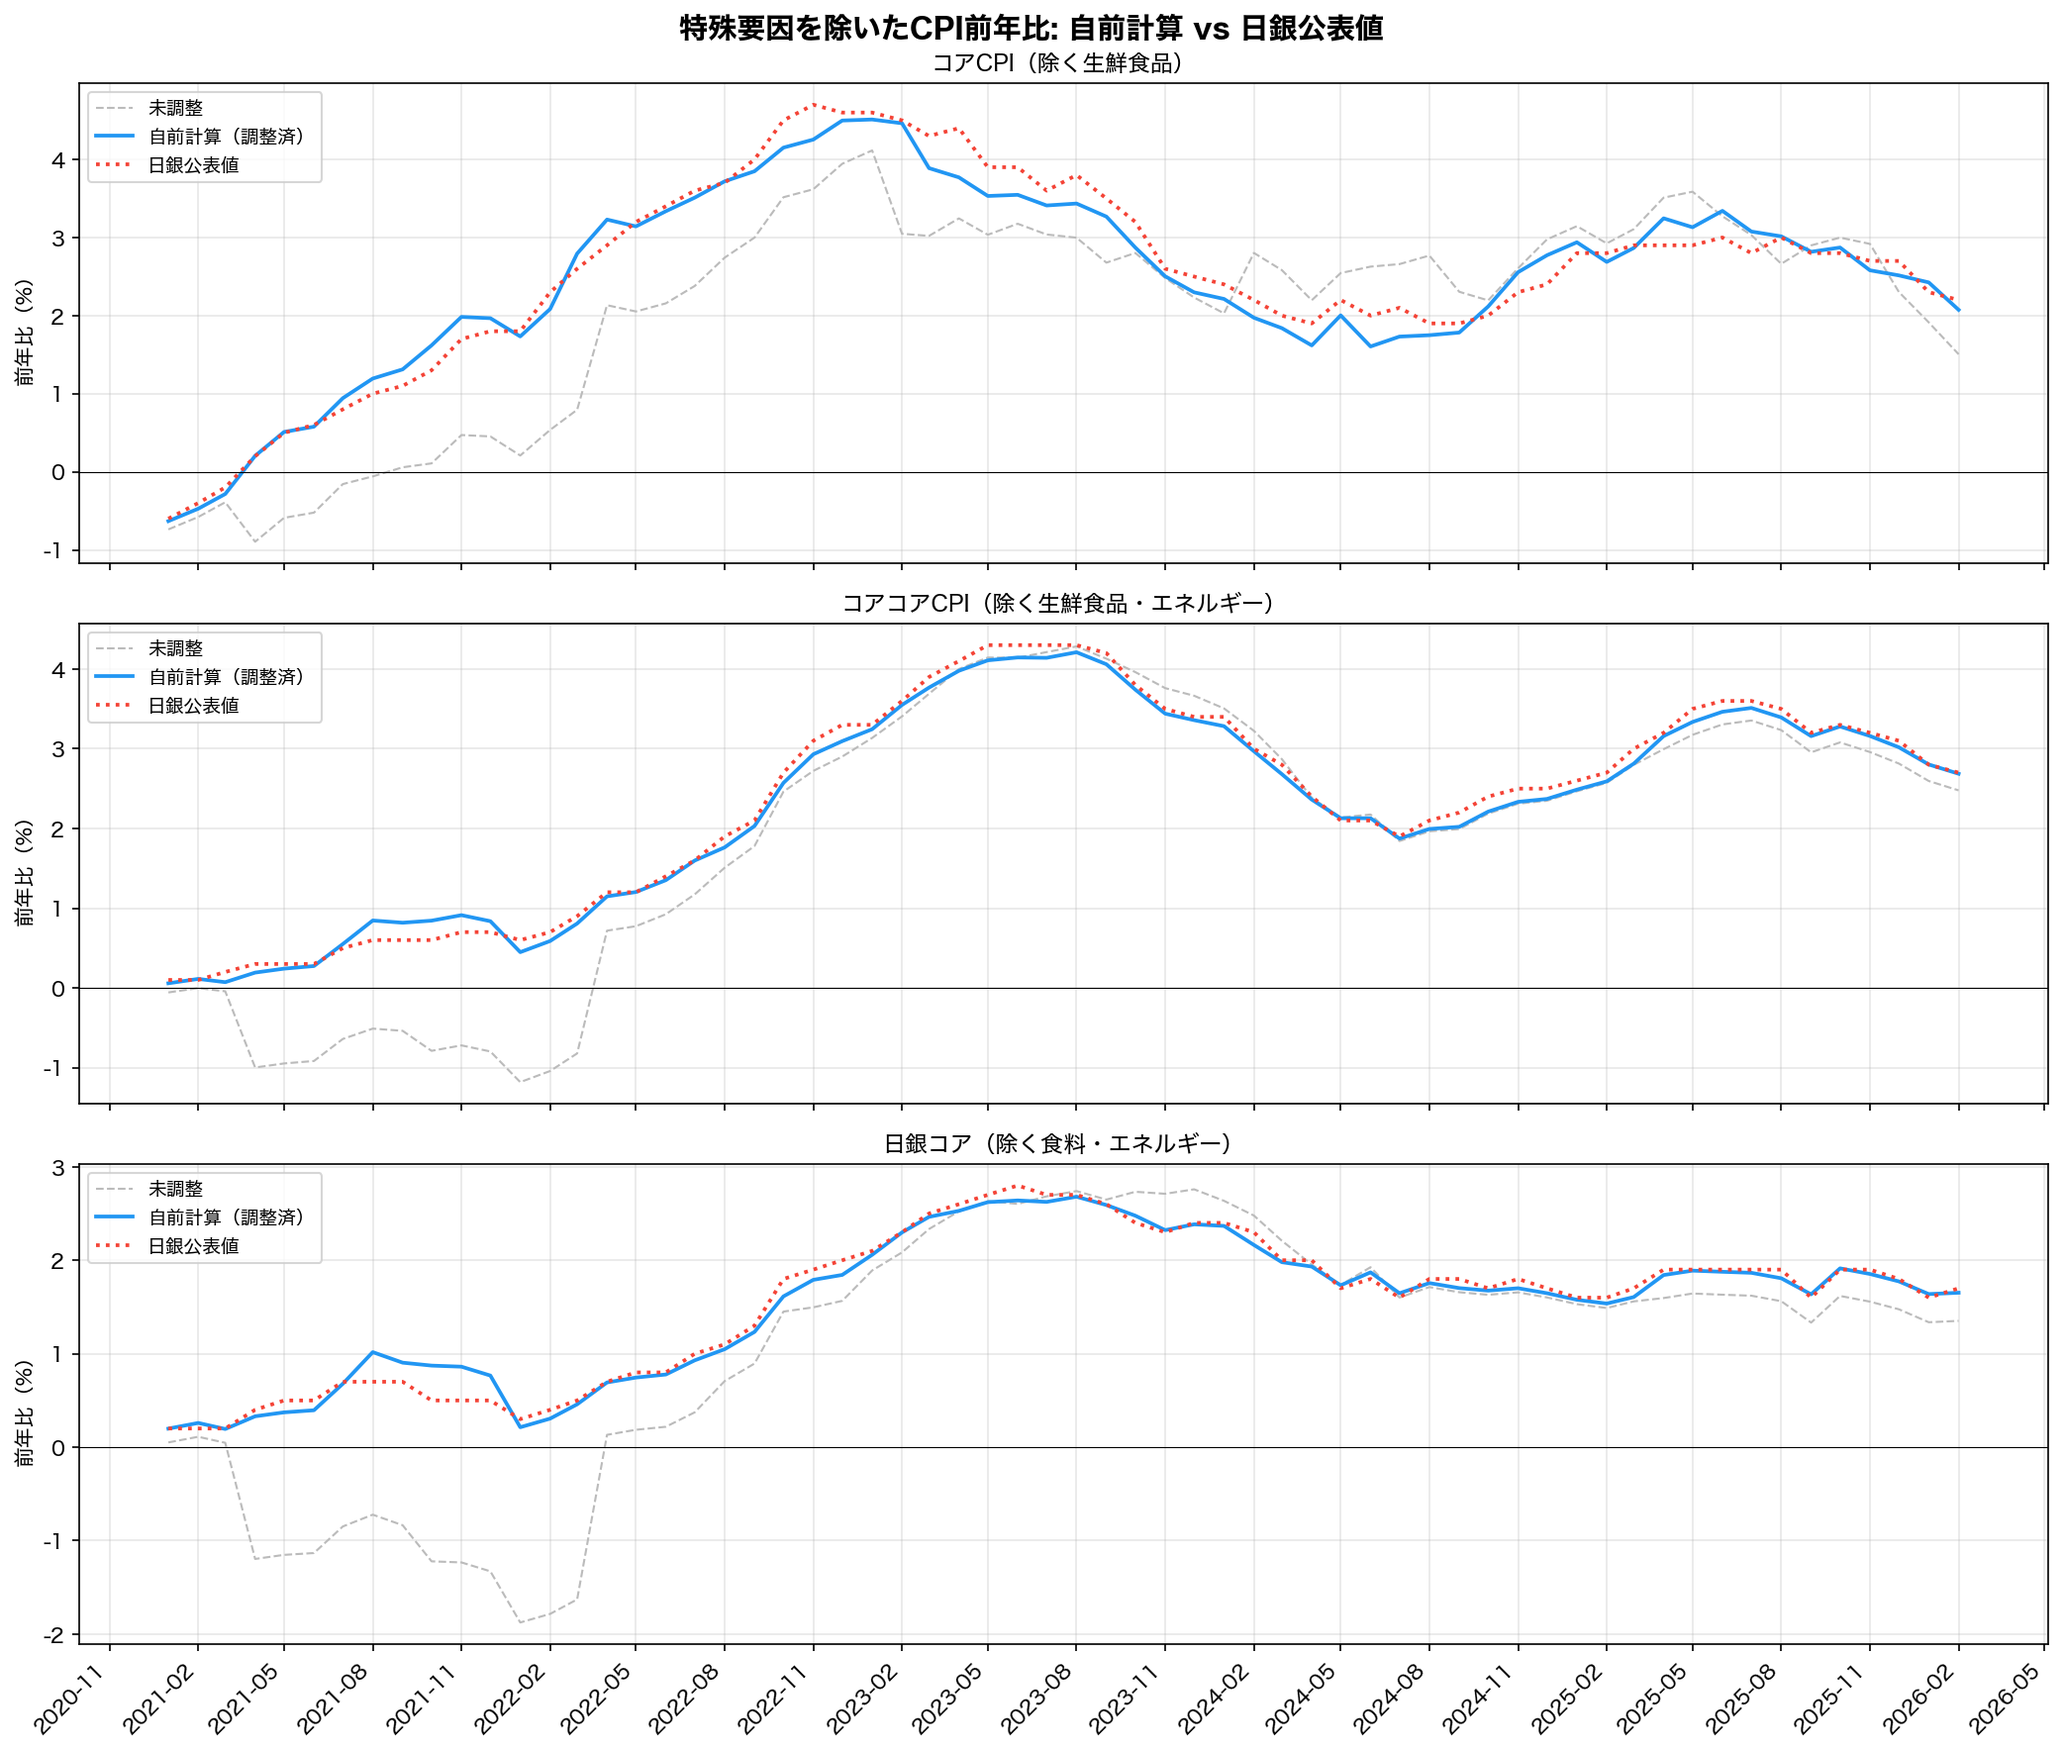
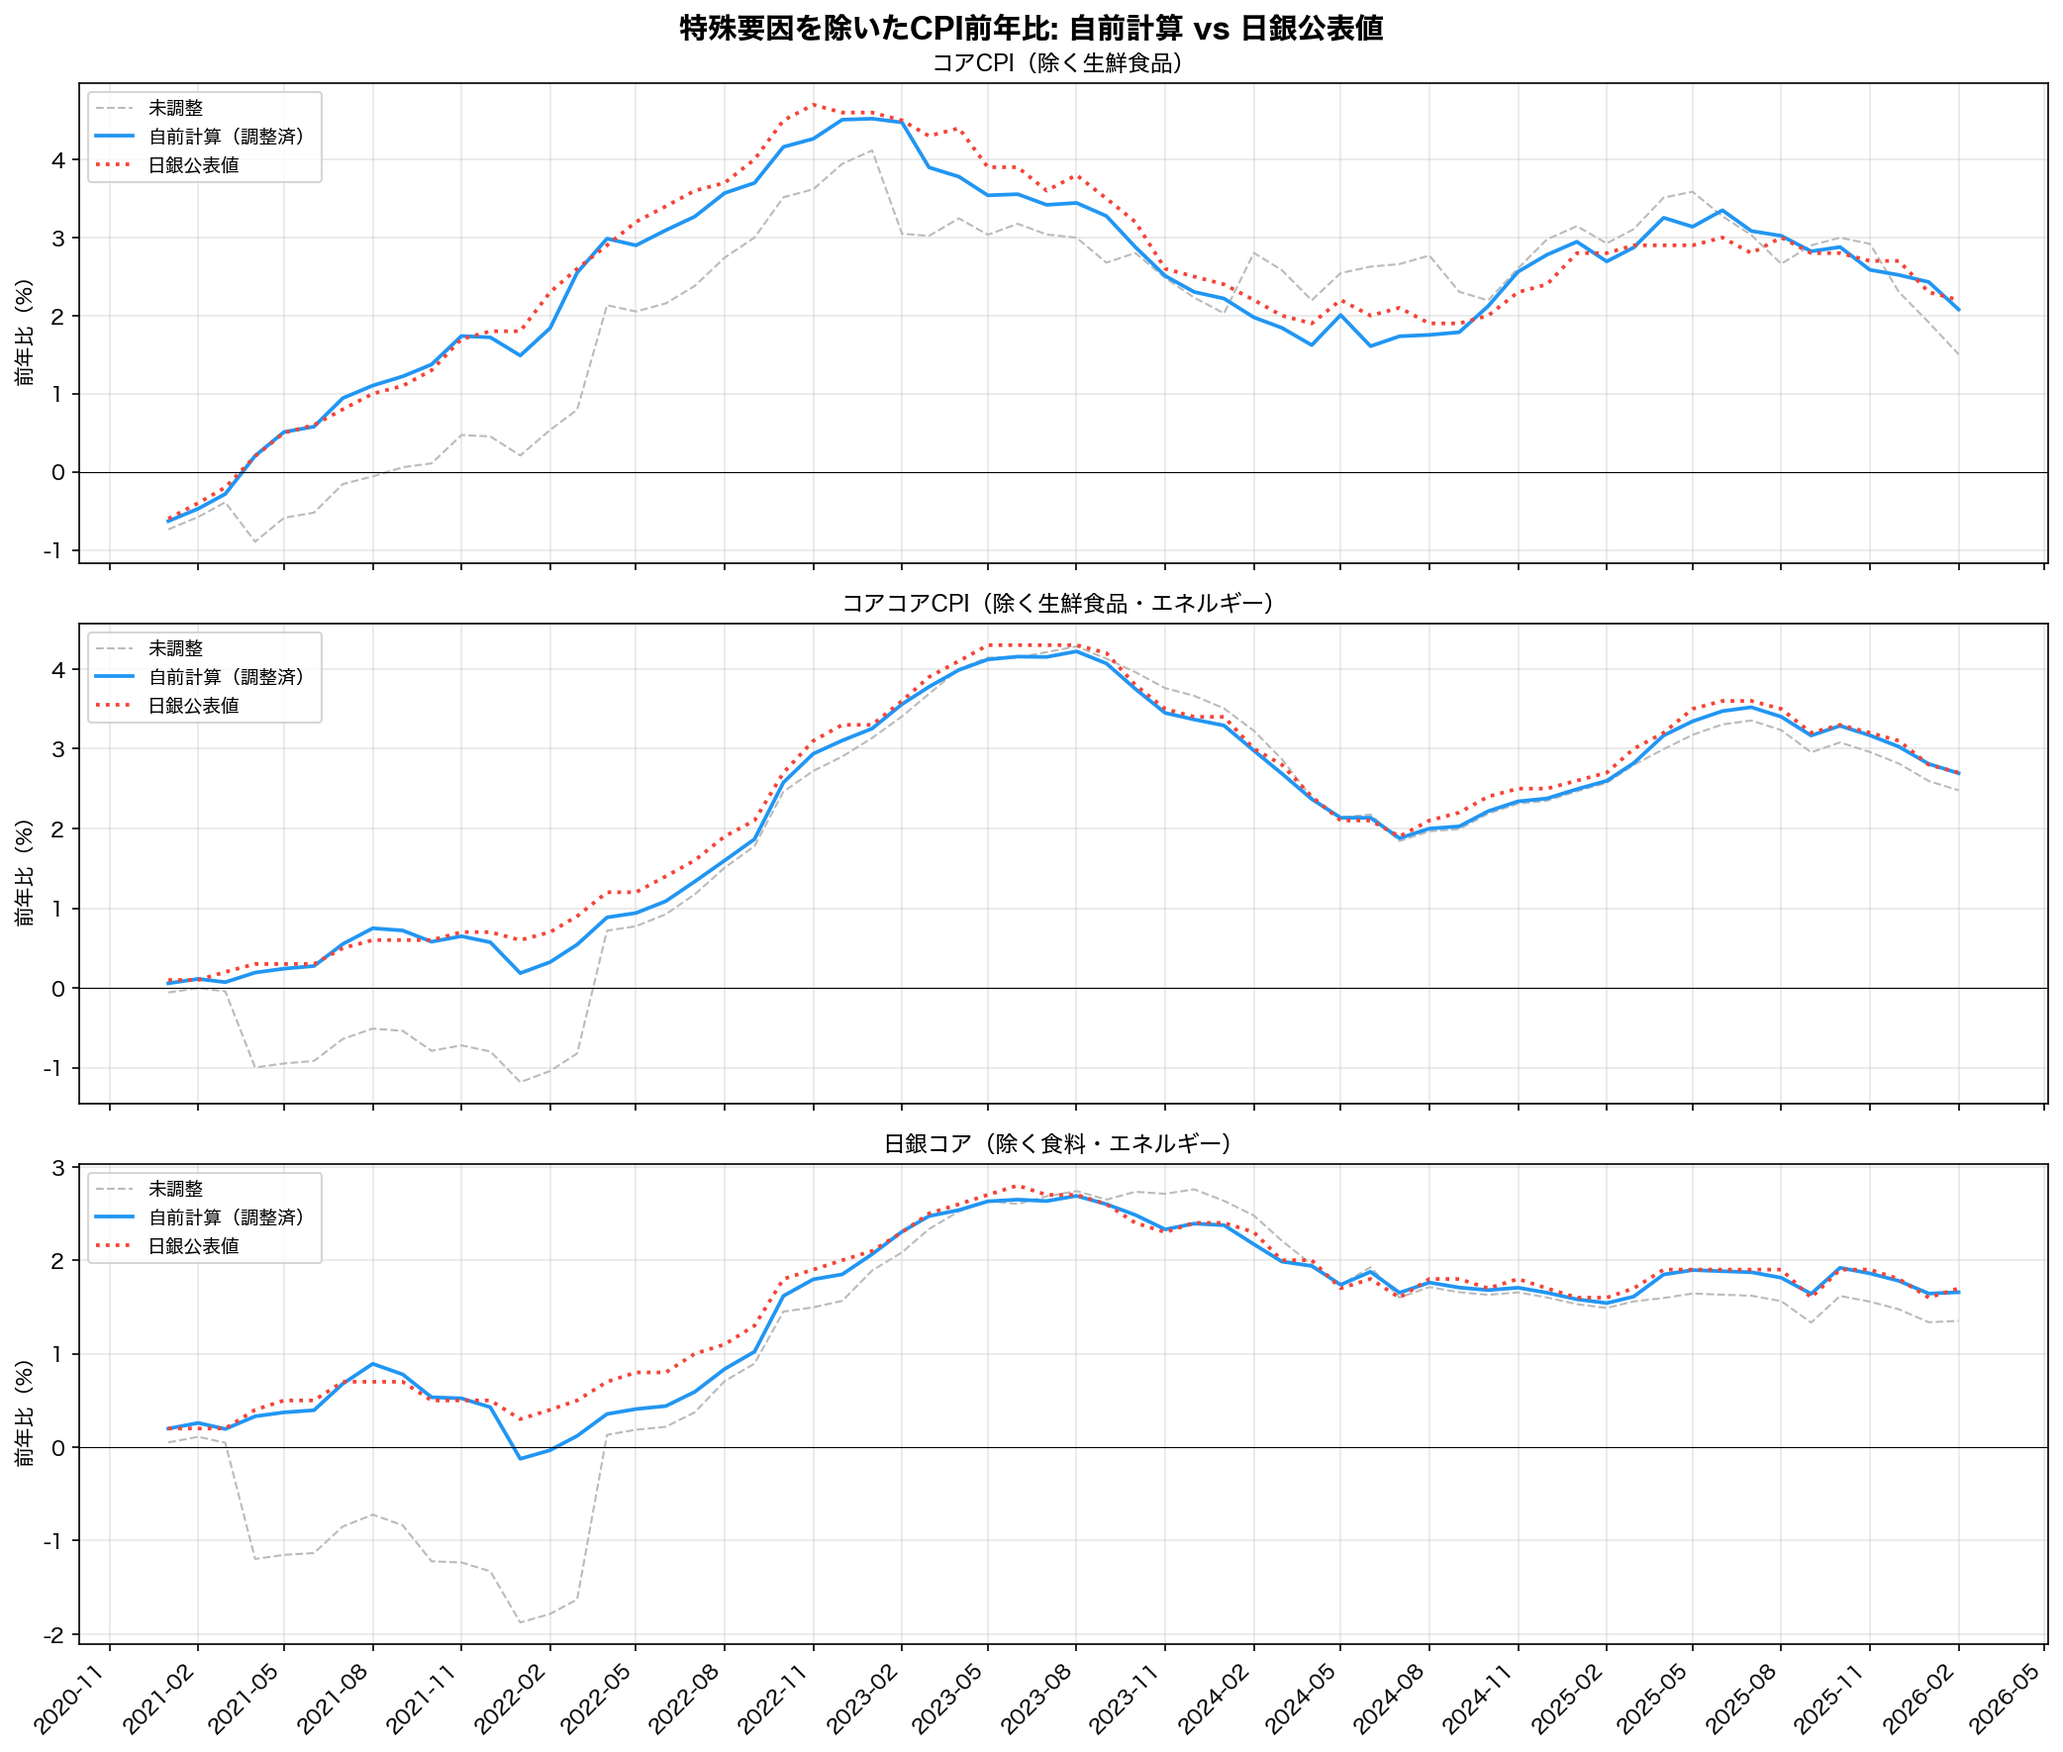
携帯通信料を保合+60%反映+固定段差方式に変更
2021-04: 保合(99.4)
2021-05〜2022-03: 月次変動の60%を反映（40%は自然競争として許容）
2022-04〜: 月次変動の100%を反映（固定段差）

2021年の全系列MAEが0.13-0.16→0.07ppに改善。
逆算で得た目標水準(90-94)に一致する調整済水準(90.9)が自然に導出される。

diff --git a/src/adjust_interpolation.py b/src/adjust_interpolation.py
@@ -22,35 +22,35 @@ import pandas as pd
 
 
 def adjust_mobile(cpi_index: pd.Series) -> pd.Series:
-    """携帯通信料の調整（年度保合＋固定段差方式）
+    """携帯通信料の調整（保合＋60%反映＋固定段差方式）
 
     1. 急落前（〜2021-03）: 実績値そのまま
-    2. 急落年度（2021-04〜2022-03）: 急落前水準で保合
-    3. 2022-04以降: 固定段差を加算
-       step = 2021-03の水準 - 2022-03の水準（年度末時点の段差）
-       adjusted[t] = actual[t] + step
+    2. 2021-04: 急落前水準で保合
+    3. 2021-05〜2022-03: 実績の月次変動の60%を反映
+       （残り40%は自然な市場競争として許容）
+    4. 2022-04以降: 実績の月次変動を100%反映（固定段差）
     """
     adjusted = cpi_index.copy()
     all_months = list(cpi_index.index)
 
     start_ym = "2021-03"
-    end_ym = "2022-03"
-    if start_ym not in all_months or end_ym not in all_months:
+    fy21_end = "2022-03"
+    if start_ym not in all_months:
         return adjusted
 
+    i_start = all_months.index(start_ym)
     val_pre = cpi_index[start_ym]
-    val_end = cpi_index[end_ym]
-    step = val_pre - val_end
 
-    for ym in adjusted.index:
-        if ym <= start_ym:
-            pass
-        elif ym <= end_ym:
-            # 急落年度: 保合
-            adjusted[ym] = val_pre
+    # 2021-04: 保合
+    adjusted.iloc[i_start + 1] = val_pre
+
+    # 2021-05以降
+    for i in range(i_start + 2, len(all_months)):
+        change = cpi_index.iloc[i] - cpi_index.iloc[i - 1]
+        if all_months[i] <= fy21_end:
+            adjusted.iloc[i] = adjusted.iloc[i - 1] + change * 0.6
         else:
-            # 年度明け以降: 固定段差加算
-            adjusted[ym] = cpi_index[ym] + step
+            adjusted.iloc[i] = adjusted.iloc[i - 1] + change * 1.0
 
     return adjusted
 
